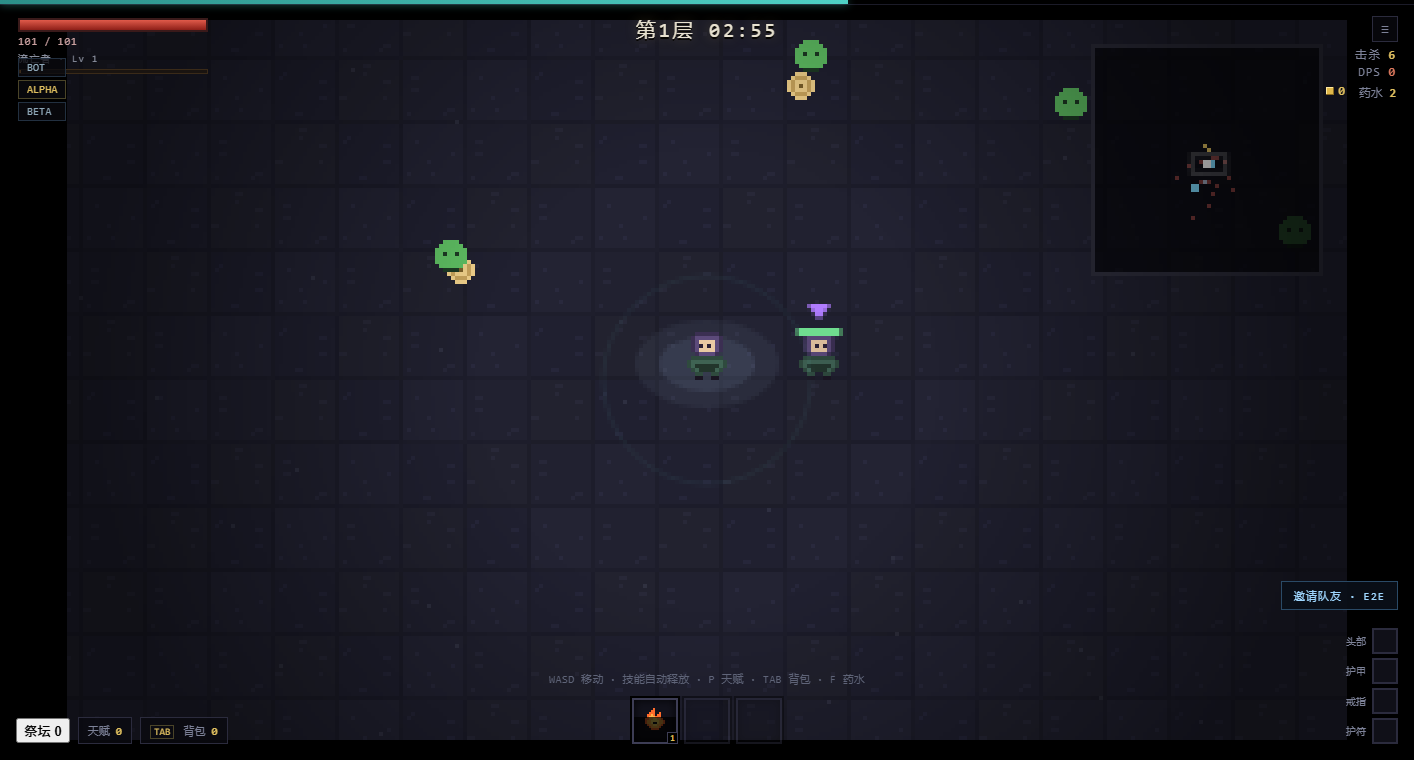
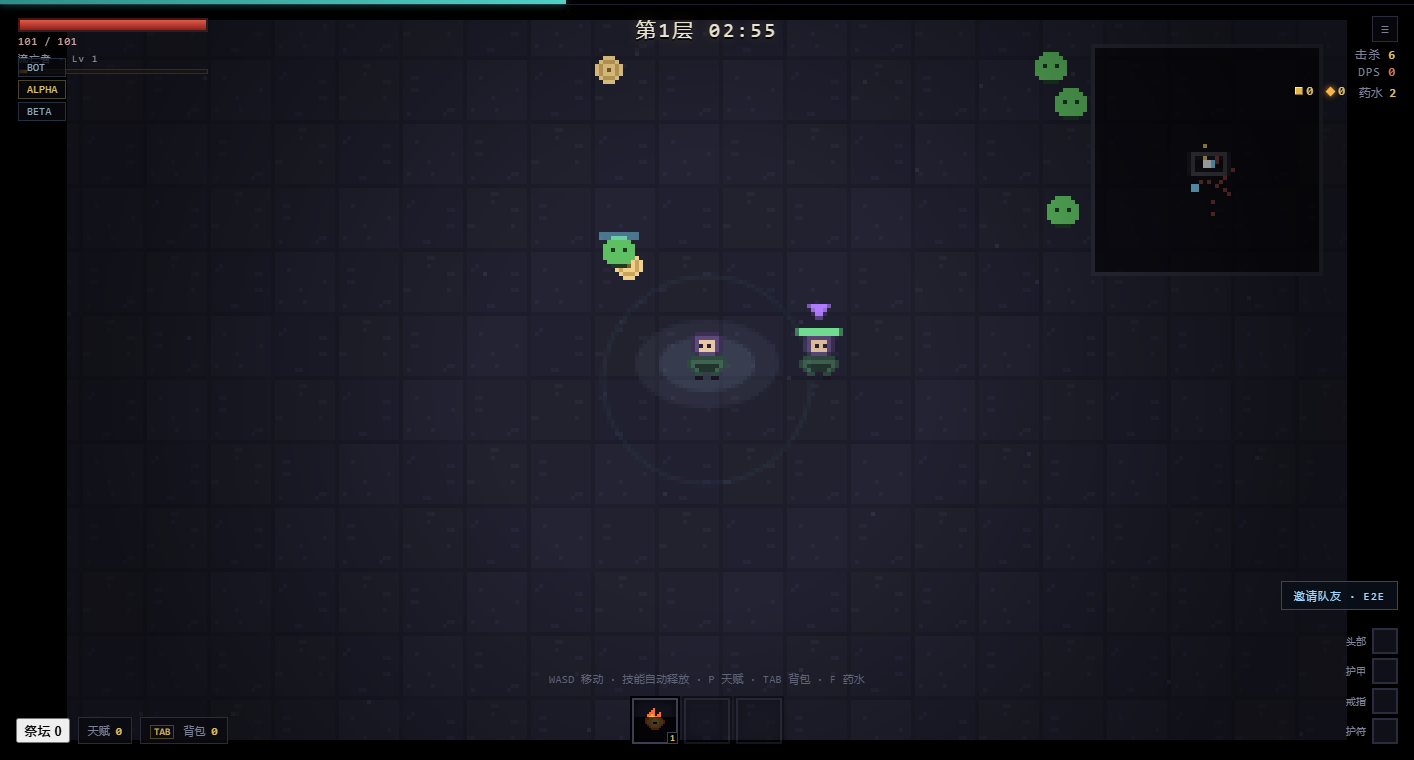
feat: 麻痹异常 + 对异常增伤词缀 + 回收/丢弃/材料
麻痹: 闪电概率施加，受击 +25% 伤害，有电弧特效
词缀: 猎伤(对异常目标增伤)、感电(麻痹概率)
材料: 怪物 28% 掉落，装备可回收成材料或丢到地上(60s)
测试: 11/11 引擎、20/20 多人

diff --git a/js/sim.js b/js/sim.js
@@ -37,7 +37,7 @@
       speed: CFG.baseSpeed, pickup: CFG.pickupRange,
       face: 1, invuln: 2, hurtFlash: 0, walkT: 0, moving: false,
       skills: [], talents: {}, treeSpent: { blade: 0, ember: 0, storm: 0 }, talentPoints: 0,
-      gold: 0, potions: 2, potionCd: 0, frenzy: 0, frenzyT: 0, boxes: 0,
+      gold: 0, potions: 2, potionCd: 0, frenzy: 0, frenzyT: 0, boxes: 0, mats: 0,
       downed: false, downT: 0, reviveProg: 0,
       gear: { helm: null, body: null, ring: null, amulet: null },
       bag: [],
@@ -288,6 +288,15 @@
   /* ---------------- 战斗 ---------------- */
   function damageEnemy(st, e, dmg, crit, type) {
     if (e.dead) return;
+    const caster = st._caster || null;
+    const ag = caster && caster.agg ? caster.agg : null;
+    if ((e.shock || 0) > 0) dmg *= 1.25;
+    if (ag && ag.ampAil > 0 && (e.burn > 0 || e.chill > 0 || (e.shock || 0) > 0)) {
+      dmg *= (1 + ag.ampAil);
+    }
+    if (type === 'lightning' && ag && ag.shockChance > 0 && rand(st) < ag.shockChance) {
+      e.shock = Math.max(e.shock || 0, 3);
+    }
     e.hp -= dmg;
     e.flash = 0.1;
     st.hitCount = (st.hitCount || 0) + 1;
@@ -338,6 +347,9 @@
       });
     }
 
+    if (rand(st) < 0.28) {
+      st.pickups.push({ kind: 'mat', value: 1 + Math.floor(rand(st) * 3), x: e.x + rr(st, -8, 8), y: e.y + rr(st, -8, 8), t: 0, life: CFG.lootLife });
+    }
     if (st.players.length && rand(st) < 0.0015) {
       const bn = nearestPlayer(st, e.x, e.y);
       if (bn) { bn.boxes = (bn.boxes || 0) + 1; toast(st, '魔盒！' + bn.name + ' 获得了魔盒', 'rare'); ev(st, 'level'); }
@@ -433,6 +445,7 @@
 
   /* ---------------- 技能释放 ---------------- */
   function fireSkill(st, p, slot) {
+    st._caster = p;
     const s = p.skills[slot];
     if (!s) return false;
     const calc = p.skillCalc[s.id];
@@ -681,6 +694,7 @@
           const calc = p.skillCalc[s.id];
           if (calc) {
             const ok = fireSkill(st, p, j);
+            st._caster = null;
             s.cd = (ok ? 1 / calc.rate : 0.08) * (p.frenzyT > 0 ? 0.65 : 1);
           }
         }
@@ -710,6 +724,7 @@
       e.t += dt;
       if (e.flash > 0) e.flash -= dt;
       if (e.chill > 0) e.chill -= dt;
+      if (e.shock > 0) e.shock -= dt;
       if (e.burn > 0) {
         e.burn -= dt;
         e.hp -= e.burnDps * dt;
@@ -963,6 +978,7 @@
           toast(st, '补给箱：' + it.name, 'rare');
         }
         else if (pk.kind === 'gold') { near.gold += pk.value; st.goldEarned += pk.value; ev(st, 'gold'); }
+        else if (pk.kind === 'mat') { near.mats = (near.mats || 0) + pk.value; ev(st, 'gold'); }
         else if (pk.kind === 'item') {
           // 装备不再自动拾取：落地后按 E 拾取
         } else if (pk.kind === 'heal') {
@@ -1100,7 +1116,7 @@
       range: (D.ENEMIES[typeId] && D.ENEMIES[typeId].range) || 0,
       shotSpeed: (D.ENEMIES[typeId] && D.ENEMIES[typeId].shotSpeed) || 0,
       shotCdMax: (D.ENEMIES[typeId] && D.ENEMIES[typeId].shotCd) || 2.3,
-      elite: !!elite, flash: 0, chill: 0, burn: 0, burnDps: 0,
+      elite: !!elite, flash: 0, chill: 0, burn: 0, burnDps: 0, shock: 0,
       t: 0, seed: rand(st) * 10, hitCd: 0, dead: false
     };
     if (st.rift && st.rift.enemy) {
@@ -1333,6 +1349,33 @@
     return id;
   }
 
+  /** 回收装备 → 材料 */
+  function salvage(st, idx, p) {
+    if (!p) p = localPlayer(st);
+    const it = p.bag[idx];
+    if (!it) return { ok: false, msg: '没有这件装备' };
+    const mats = Math.max(1, Math.round(E.itemPrice(it) * 0.6));
+    p.bag.splice(idx, 1);
+    p.mats = (p.mats || 0) + mats;
+    ev(st, 'gold');
+    return { ok: true, mats: mats };
+  }
+
+  /** 丢到地上：其他玩家可以捡，60 秒后消失 */
+  function dropItem(st, idx, p) {
+    if (!p) p = localPlayer(st);
+    const it = p.bag[idx];
+    if (!it) return { ok: false, msg: '没有这件装备' };
+    p.bag.splice(idx, 1);
+    st.pickups.push({
+      kind: 'item', item: it,
+      x: p.x + rr(st, -16, 16), y: p.y + rr(st, -16, 16),
+      t: 0, life: CFG.lootLife, value: 0
+    });
+    addFx(st, 'ring', p.x, p.y, 14, D.RARITY_COLOR[it.rarity], 0.3);
+    return { ok: true };
+  }
+
   /** 强化：+1 级，费用随等级指数上涨 */
   function enhance(st, slot, p) {
     if (!p) p = localPlayer(st);
@@ -1432,7 +1475,7 @@
     recompute: recompute, recomputeAll: recomputeAll, skillLevel: skillLevel,
     localPlayer: localPlayer, setLocal: setLocal, alivePlayers: alivePlayers,
     addPlayer: addPlayer, removePlayer: removePlayer, applyPlayerDetails: applyPlayerDetails,
-    classOf: classOf, setClass: setClass, enhance: enhance,
+    classOf: classOf, setClass: setClass, enhance: enhance, salvage: salvage, dropItem: dropItem,
     addSkill: addSkill,
     allocate: allocate, resetTalents: resetTalents, drinkPotion: drinkPotion,
     equip: equip, unequip: unequip, sellItem: sellItem, buyItem: buyItem, buyPotion: buyPotion,

diff --git a/js/ui.js b/js/ui.js
@@ -170,6 +170,9 @@
     const dpsInt = Math.round(dps);
     if (force || dpsInt !== L.dps) { $('dpsnum').textContent = dpsInt; L.dps = dpsInt; }
 
+    const mn = document.getElementById('matnum');
+    if (mn && mn.textContent != String(p.mats || 0)) mn.textContent = p.mats || 0;
+
     // 狂潮条
     const fz = p.frenzy || 0, ft = p.frenzyT || 0;
     const frenzyOn = ft > 0;
@@ -692,9 +695,24 @@
     html += '</div></div>';
 
     html += '<div class="mfoot"><button class="btn" data-close="1">关闭 (E)</button></div>';
-    openModal(html);
+    openModal(html, 'wide');
 
     $('modalbox').onclick = function (ev) {
+      const mnTarget = ev.target;
+      const mini = mnTarget && mnTarget.getAttribute ? mnTarget.getAttribute('data-mini') : null;
+      if (mini) {
+        const mi = parseInt(mnTarget.getAttribute('data-i'), 10);
+        if (mini === 'salv') {
+          const rs = ACT.run(st, 'salvage', [mi]);
+          if (rs && rs.ok) { UI.toast('回收获得 ' + rs.mats + ' 材料', 'good'); UI.playSfx('buy'); }
+          else if (rs) UI.toast(rs.msg, 'bad');
+        } else {
+          const rd = ACT.run(st, 'drop', [mi]);
+          if (rd && rd.ok) UI.toast('已丢在地上', 'good');
+        }
+        UI.showBag(st);
+        return;
+      }
       const el = pickRow(ev);
       if (!el) return;
       if (el.getAttribute('data-close')) { UI.close(); return; }
@@ -770,7 +788,11 @@
         '<span class="lvl">点击开启</span></div>';
     }
     if (!st.player.bag.length) html += '<div class="empty">空</div>';
-    for (let i = 0; i < st.player.bag.length; i++) html += itemRow(st.player.bag[i], '', 'eq', i);
+    for (let i = 0; i < st.player.bag.length; i++) {
+      html += itemRow(st.player.bag[i],
+        '<span class="mini" data-mini="salv" data-i="' + i + '" title="回收成材料">回</span>' +
+        '<span class="mini" data-mini="drop" data-i="' + i + '" title="丢到地上">丢</span>', 'eq', i);
+    }
     html += '</div></div>';
     html += '<div class="mfoot"><button class="btn" data-close="1">关闭 (TAB)</button></div>';
     openModal(html);

diff --git a/test/run.js b/test/run.js
@@ -1,4 +1,4 @@
-const path = require('path');
+const path = require('path');
 global.window = global;
 require(path.join(__dirname, '..', 'js', 'data.js'));
 require(path.join(__dirname, '..', 'js', 'engine.js'));
@@ -11,7 +11,15 @@ for (const r of res) {
   if (r.pass) pass++;
   console.log((r.pass ? '  PASS  ' : '  FAIL  ') + r.name + '   ' + (r.detail || ''));
 }
-console.log('\n' + pass + '/' + res.length + ' passed');
+// 异常增伤词缀进入聚合
+const itA = { slot: 'ring', ilvl: 10, rarity: 2, plus: 0, name: 'T', mods: [{ k: 'ampAil', v: 0.25 }, { k: 'shockChance', v: 0.4 }] };
+const aggA = E.buildAgg({ ring: itA });
+const okA = Math.abs(aggA.ampAil - 0.25) < 1e-9 && Math.abs(aggA.shockChance - 0.4) < 1e-9;
+console.log((okA ? '  PASS  ' : '  FAIL  ') + '异常增伤词缀进入聚合   ampAil=' + aggA.ampAil + ' shock=' + aggA.shockChance);
+if (okA) pass++;
+const total = res.length + 1;
+
+console.log('\n' + pass + '/' + total + ' passed');
 
 /* ---- 数值曲线体检 ---- */
 console.log('\n--- 技能 DPS 随等级（无装备） ---');
@@ -41,4 +49,4 @@ for (const t of [0, 120, 240, 360, 480]) {
   console.log('  ' + String(t).padStart(3) + 's  腐质 ' + String(s.hp).padStart(4) + '  巨兽 ' + String(b.hp).padStart(4) + '  首领 ' + E.enemyStats('boss', t).hp);
 }
 
-process.exit(pass === res.length ? 0 : 1);
+process.exit(pass === total ? 0 : 1);

diff --git a/js/render.js b/js/render.js
@@ -263,6 +263,13 @@
         }
         ctx.globalAlpha = left < 8 ? (Math.floor(time * 6) % 2 === 0 ? 0.3 : 1) : 1;
         blitWorld('chest', pk.x, pk.y + bob, false, false);
+      } else if (pk.kind === 'mat') {
+        ctx.globalAlpha = 0.85;
+        ctx.fillStyle = '#ffb347';
+        ctx.fillRect(sx(pk.x) - 1, sy(pk.y) - 2 + bob, 2, 2);
+        ctx.globalAlpha = 0.25 + 0.2 * Math.sin(time * 7 + pk.x);
+        ctx.fillRect(sx(pk.x) - 2, sy(pk.y) - 3 + bob, 4, 4);
+        ctx.globalAlpha = 1;
       } else {
         blitWorld('heart', pk.x, pk.y + bob, false, false);
       }
@@ -452,6 +459,23 @@
       ctx.globalAlpha = 0.5 + 0.3 * Math.sin(time * 12);
       ctx.fillStyle = '#ff8a3d';
       ctx.fillRect(sx(e.x) - 1, sy(e.y) - 14, 2, 2);
+      ctx.globalAlpha = 1;
+    }
+    if (e.shock > 0) {
+      const sk = 0.55 + 0.45 * Math.sin(time * 18);
+      ctx.globalAlpha = 0.65 * sk;
+      ctx.strokeStyle = '#ffe066';
+      ctx.lineWidth = 1;
+      ctx.beginPath();
+      ctx.moveTo(sx(e.x) - 4, sy(e.y) - 12);
+      ctx.lineTo(sx(e.x) - 1, sy(e.y) - 8);
+      ctx.lineTo(sx(e.x) - 4, sy(e.y) - 5);
+      ctx.stroke();
+      ctx.beginPath();
+      ctx.moveTo(sx(e.x) + 3, sy(e.y) - 13);
+      ctx.lineTo(sx(e.x) + 6, sy(e.y) - 9);
+      ctx.lineTo(sx(e.x) + 3, sy(e.y) - 6);
+      ctx.stroke();
       ctx.globalAlpha = 1;
     }
 

diff --git a/js/data.js b/js/data.js
@@ -75,6 +75,8 @@
   */
   const AFFIXES = [
     { id: 'life', slots: ['helm', 'body', 'ring', 'amulet'], m: { k: 'life' }, fmt: '+{v} 生命', tiers: [[16, 24, 1], [26, 38, 5], [40, 56, 9], [58, 80, 13], [82, 110, 17]] },
+    { id: 'amp_ail', slots: ['ring', 'amulet'], m: { k: 'ampAil' }, pct: true, fmt: '对异常状态敌人 +{v}% 伤害', tiers: [[6, 9, 1], [10, 15, 6], [16, 24, 11], [25, 36, 16], [37, 52, 21]] },
+    { id: 'shock_hit', slots: ['ring', 'amulet'], m: { k: 'shockChance' }, pct: true, fmt: '{v}% 概率使敌人麻痹', tiers: [[6, 10, 1], [11, 16, 6], [17, 24, 11], [25, 34, 16], [35, 48, 21]] },
     { id: 'inc_all', slots: ['ring', 'amulet'], m: { k: 'inc', t: 'all' }, pct: true, fmt: '+{v}% 全部伤害', tiers: [[7, 10, 1], [11, 16, 5], [17, 24, 9], [25, 34, 13], [35, 48, 17]] },
     { id: 'inc_fire', slots: ['helm', 'ring', 'amulet'], m: { k: 'inc', t: 'fire' }, pct: true, fmt: '+{v}% 火焰伤害', tiers: [[12, 18, 1], [19, 28, 5], [29, 42, 9], [43, 58, 13], [59, 80, 17]] },
     { id: 'inc_cold', slots: ['helm', 'ring', 'amulet'], m: { k: 'inc', t: 'cold' }, pct: true, fmt: '+{v}% 冰霜伤害', tiers: [[12, 18, 1], [19, 28, 5], [29, 42, 9], [43, 58, 13], [59, 80, 17]] },

diff --git a/test/mp.js b/test/mp.js
@@ -128,5 +128,19 @@ for (let i = 0; i < 30; i++) SIM.step(stG, STEP, {});
 const notAuto = pg.bag.length === 0;
 const rt = SIM.takeItem(stG, pg);
 T('装备不自动拾取，按 E 才能拿', notAuto && !!(rt && rt.ok && pg.bag.length === 1), 'bag=' + pg.bag.length);
+// 回收 / 丢弃
+const stSv = SIM.create(81, 1);
+SIM.chooseRift(stSv, 0);
+const psv = stSv.players[0];
+psv.bag.push({ name: '测试甲', slot: 'body', ilvl: 10, rarity: 2, mods: [], plus: 0 });
+const rs = SIM.salvage(stSv, 0, psv);
+T('回收装备产出材料', !!(rs && rs.ok && rs.mats > 0 && psv.bag.length === 0 && psv.mats === rs.mats), 'mats=' + psv.mats);
+
+psv.bag.push({ name: '测试乙', slot: 'ring', ilvl: 10, rarity: 1, mods: [], plus: 0 });
+const pcount = stSv.pickups.length;
+const rd2 = SIM.dropItem(stSv, 0, psv);
+const dropped = stSv.pickups[stSv.pickups.length - 1];
+T('丢弃装备落地且 60 秒后消失', !!(rd2 && rd2.ok && stSv.pickups.length === pcount + 1 && dropped.kind === 'item' && dropped.life === 60),
+  'life=' + (dropped && dropped.life));
 console.log('\n' + pass + '/' + (pass + fail) + ' passed');
 process.exit(fail === 0 ? 0 : 1);

diff --git a/styles.css b/styles.css
@@ -421,3 +421,14 @@ body.touch #joystick { display: block; }
 #tip .tline { border-top: 1px solid rgba(255,255,255,.07); margin: 6px 0; }
 #tip .tfoot { color: #e0c060; font-size: 10.5px; }
 .irow.box { border-color: #6a5520; background: #14110a; }
+
+.dotmat { display: inline-block; width: 7px; height: 7px; background: #ffb347; box-shadow: 0 0 6px rgba(255,179,71,.8); margin-right: 4px; transform: rotate(45deg); }
+.mini { cursor: pointer; font-size: 10px; color: #6f7a90; border: 1px solid #2a2a38; padding: 1px 5px; margin-left: 4px; }
+.mini:hover { color: var(--gold); border-color: var(--gold); }
+
+/* 背包行：名字不要被按钮挤掉 */
+.irow .nm { flex: 1 1 auto; min-width: 60px; overflow: hidden; text-overflow: ellipsis; white-space: nowrap; }
+.irow .lvl { flex: 0 0 auto; color: #6f7a90; font-size: 10px; }
+.irow .mini { flex: 0 0 auto; }
+
+.irow .mini { font-size: 10px; padding: 1px 4px; margin-left: 2px; line-height: 1.3; }

diff --git a/js/engine.js b/js/engine.js
@@ -30,7 +30,7 @@
       more: [], moreSpeed: [],
       speed: 0, cdr: 0, crit: 0, critMulti: 0,
       life: 0, lifePct: 0, move: 0, pickup: 0, gold: 0,
-      proj: 0, pierce: 0, chain: 0
+      proj: 0, pierce: 0, chain: 0, ampAil: 0, shockChance: 0
     };
   }
 
@@ -54,6 +54,8 @@
       case 'proj': agg.proj += v; break;
       case 'pierce': agg.pierce += v; break;
       case 'chain': agg.chain += v; break;
+      case 'ampAil': agg.ampAil += v; break;
+      case 'shockChance': agg.shockChance += v; break;
       default: break;
     }
   }
@@ -105,6 +107,7 @@
     agg.life += t.life; agg.lifePct += t.lifePct;
     agg.move += t.move; agg.pickup += t.pickup; agg.gold += t.gold;
     agg.proj += t.proj; agg.pierce += t.pierce; agg.chain += t.chain;
+    agg.ampAil += t.ampAil; agg.shockChance += t.shockChance;
     if (extraMods) for (let i = 0; i < extraMods.length; i++) applyMod(agg, extraMods[i]);
     return agg;
   }

diff --git a/js/main.js b/js/main.js
@@ -115,6 +115,13 @@
     if (SCENE === 'town') { SIM.startTown(st); st.cycle = 2; }
     if (SCENE === 'rift') { SIM.openRiftChoice(st); }
     // 调试：?loot=1 在脚边撒几件不同稀有度的装备
+    // 调试：?bag=1 背包里塞四件装备，方便看回收/丢弃按钮
+    if (params.get('bag') === '1') {
+      const slotsB = ['helm', 'body', 'ring', 'amulet'];
+      for (let bi = 0; bi < 4; bi++) {
+        st.players[0].bag.push(window.ENGINE.rollItem(slotsB[bi], 9, Math.random, bi));
+      }
+    }
     if (params.get('loot') === '1') {
       const me = st.players[0];
       const slots = ['helm', 'body', 'ring', 'amulet'];

diff --git a/js/act.js b/js/act.js
@@ -34,6 +34,8 @@
       case 'marketBuy': return SIM.marketBuy(st, a[0], p);
       case 'gamble': return SIM.gamble(st, a[0], p);
       case 'enhance': return SIM.enhance(st, a[0], p);
+      case 'salvage': return SIM.salvage(st, a[0], p);
+      case 'drop': return SIM.dropItem(st, a[0], p);
       case 'potion': return SIM.drinkPotion(st, p);
       case 'leave': return SIM.interact(st);
       case 'take': return SIM.takeItem(st, p);

diff --git a/index.html b/index.html
@@ -31,6 +31,7 @@
 
   <div id="wallet">
     <span class="w"><span class="dotcoin"></span><b id="goldnum">0</b></span>
+      <span class="w"><span class="dotmat"></span><b id="matnum">0</b></span>
     <span class="w">药水 <b id="potnum">2</b></span>
   </div>
 

diff --git a/CHANGELOG.md b/CHANGELOG.md
@@ -2,6 +2,14 @@
 
 本项目从零开始，逐轮迭代。下面按实际完成的顺序记录，方便回溯每个版本改变了什么。
 
+## 1.13.0 — 元素异常与材料流通
+
+- **麻痹**：闪电命中按概率施加，处于麻痹的敌人受到 +25% 伤害，头顶有电弧特效
+- **对异常目标增伤**：新词缀「猎伤」（燃烧/冰缓/麻痹任一状态即生效），新增「感电」词缀提供麻痹概率
+- **材料流通**：怪物 28% 概率掉材料（自动拾取），背包里可把装备**回收**成材料，也可以**丢到地上**（其他玩家能捡，60 秒消失）
+- HUD 增加材料计数（橙色菱形）
+- 测试新增：异常词缀进入聚合、回收产出材料、丢弃落地 60 秒
+
 ## 1.12.0 — 小地图与刷宝特效
 
 - **小地图**（右上角，按 M 开关）：实时显示玩家、队友、敌人、精英/首领、地面掉落（按稀有度上色）与当前视野框
